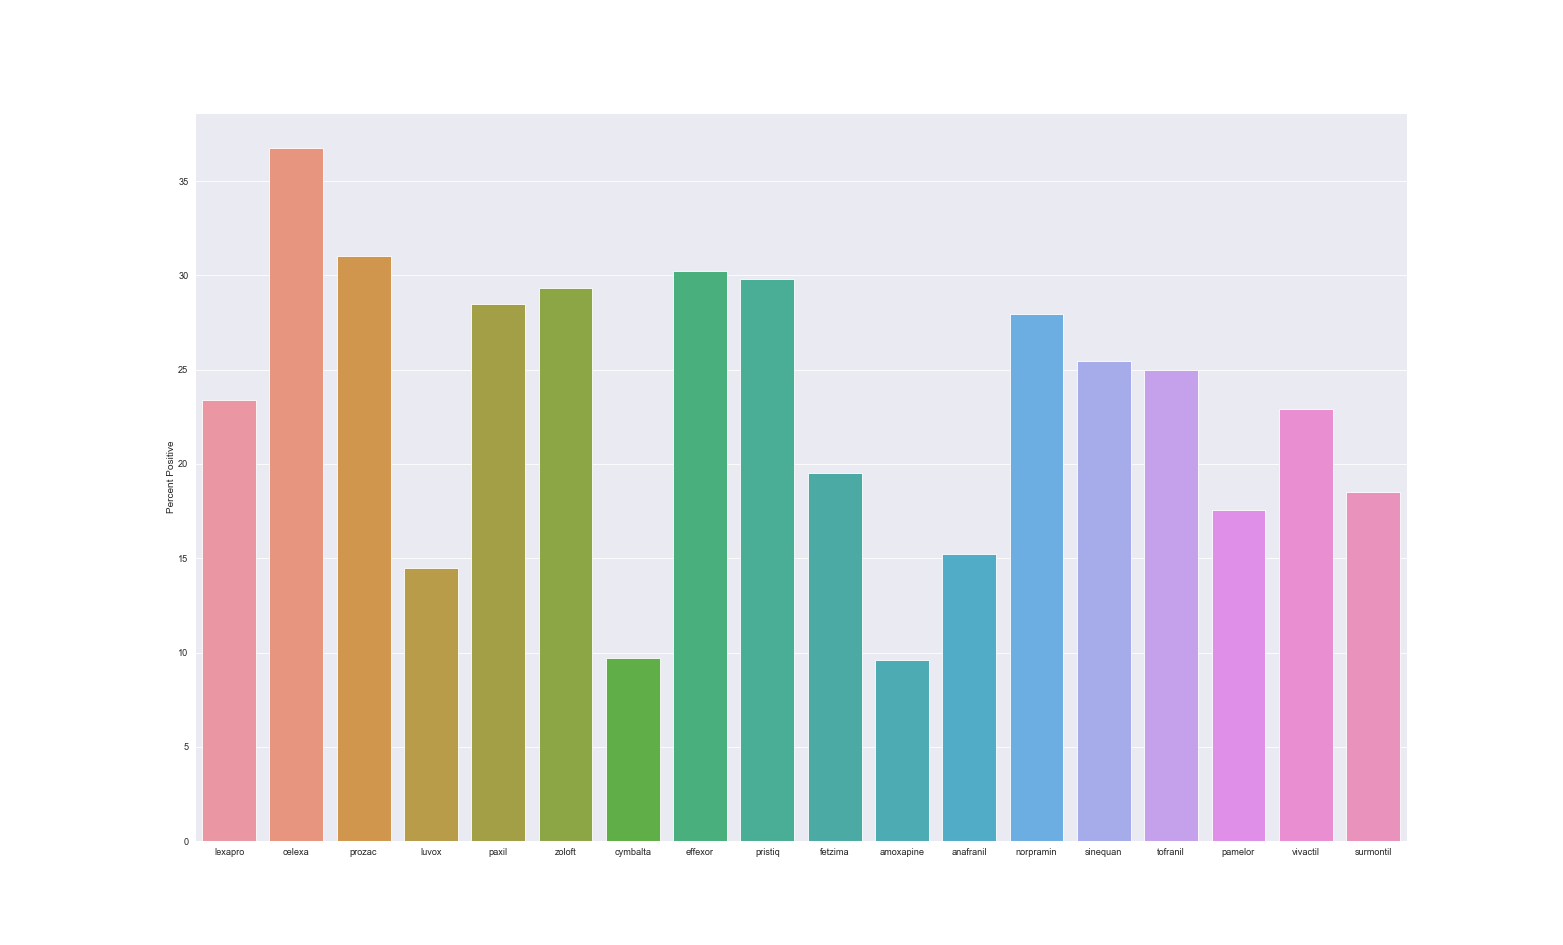
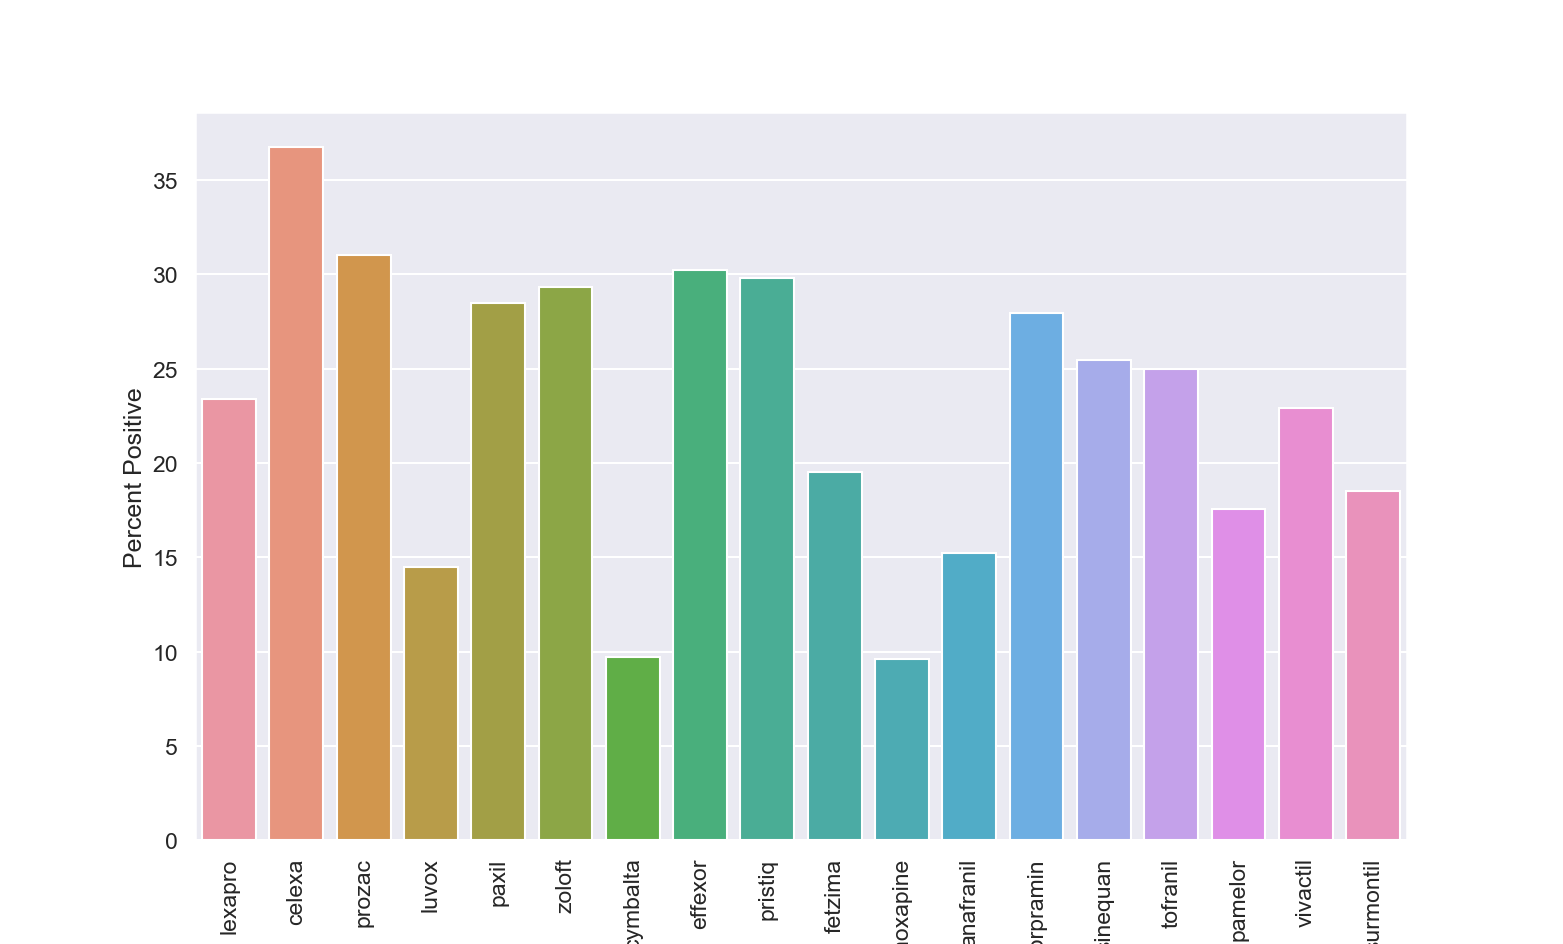
better graph

diff --git a/main.py b/main.py
@@ -72,8 +72,8 @@ for antidep in antideps.keys():
 	scores.append((data.label.value_counts(normalize=True) * 100)[1])
 	print('\nPercent Positive:', scores[-1], '\n')
 
-fig, ax = plt.subplots(figsize=(20, 10), dpi=40)
+fig, ax = plt.subplots(figsize=(10, 10))
 sns.barplot(x=np.array(list(antideps.keys())), y=np.array(scores), ax=ax)
-ax.set_xticklabels(np.array(list(antideps.keys())))
+ax.set_xticklabels(np.array(list(antideps.keys())), rotation='vertical')
 ax.set_ylabel("Percent Positive")
 plt.show()
